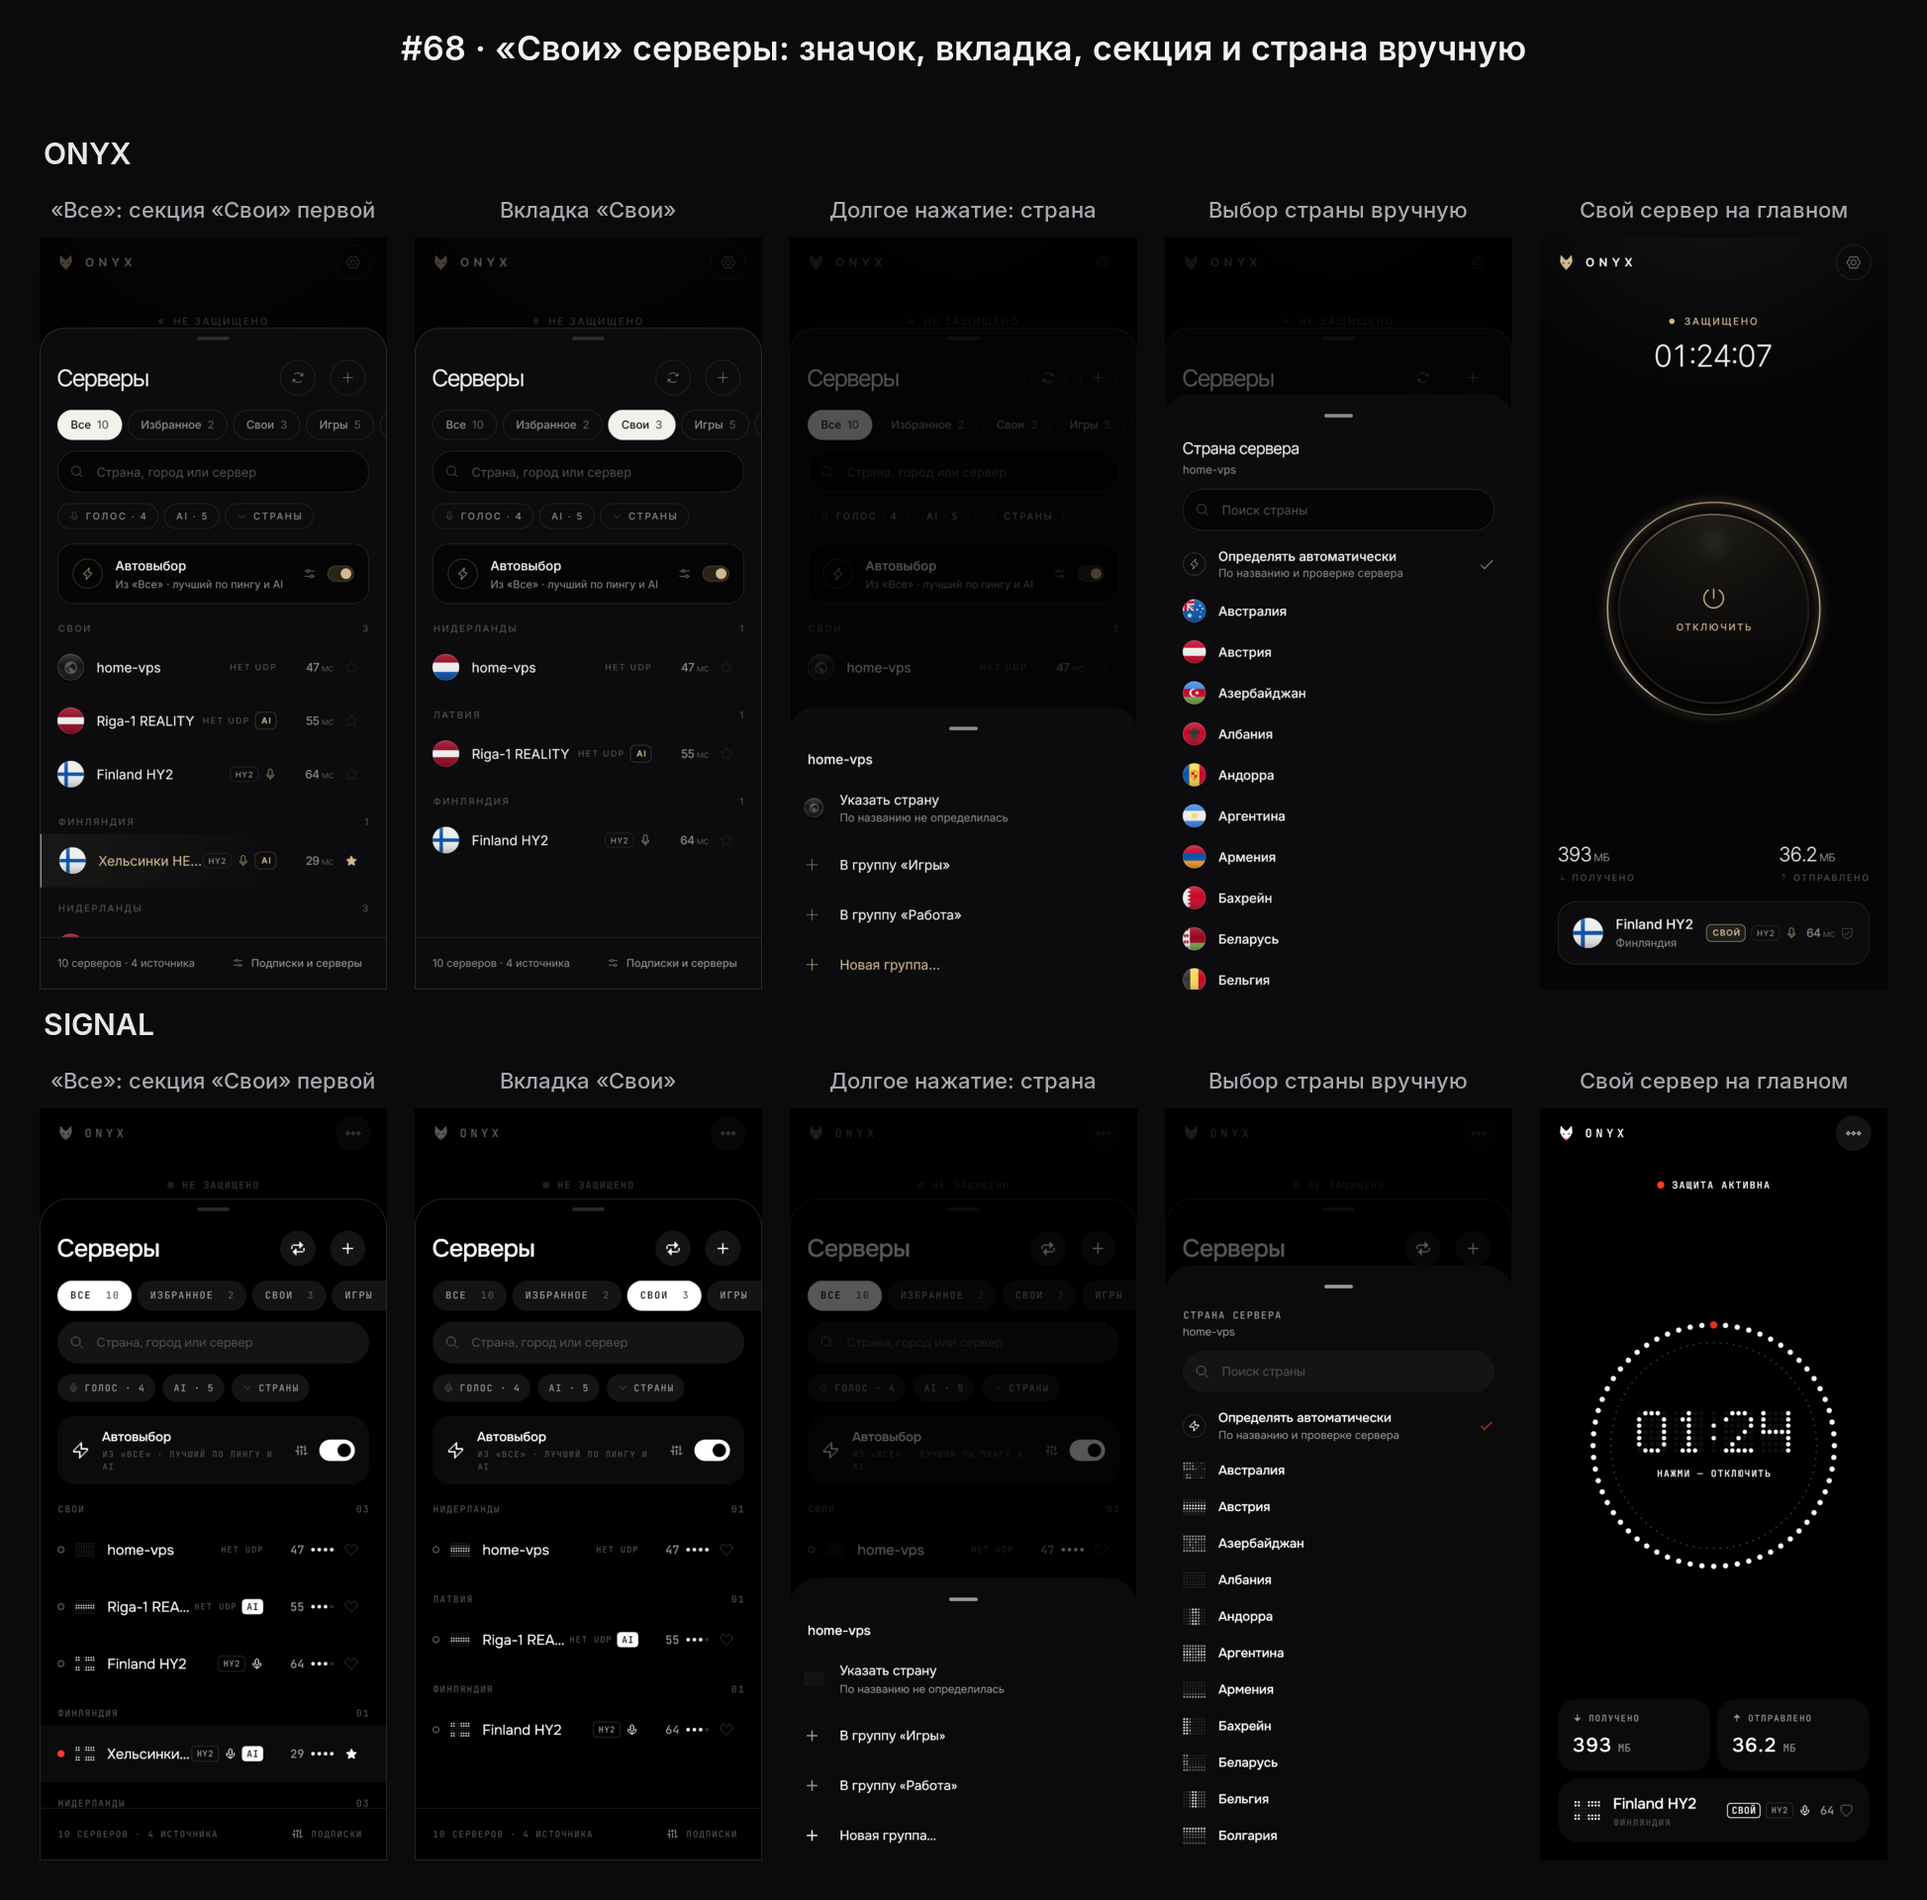
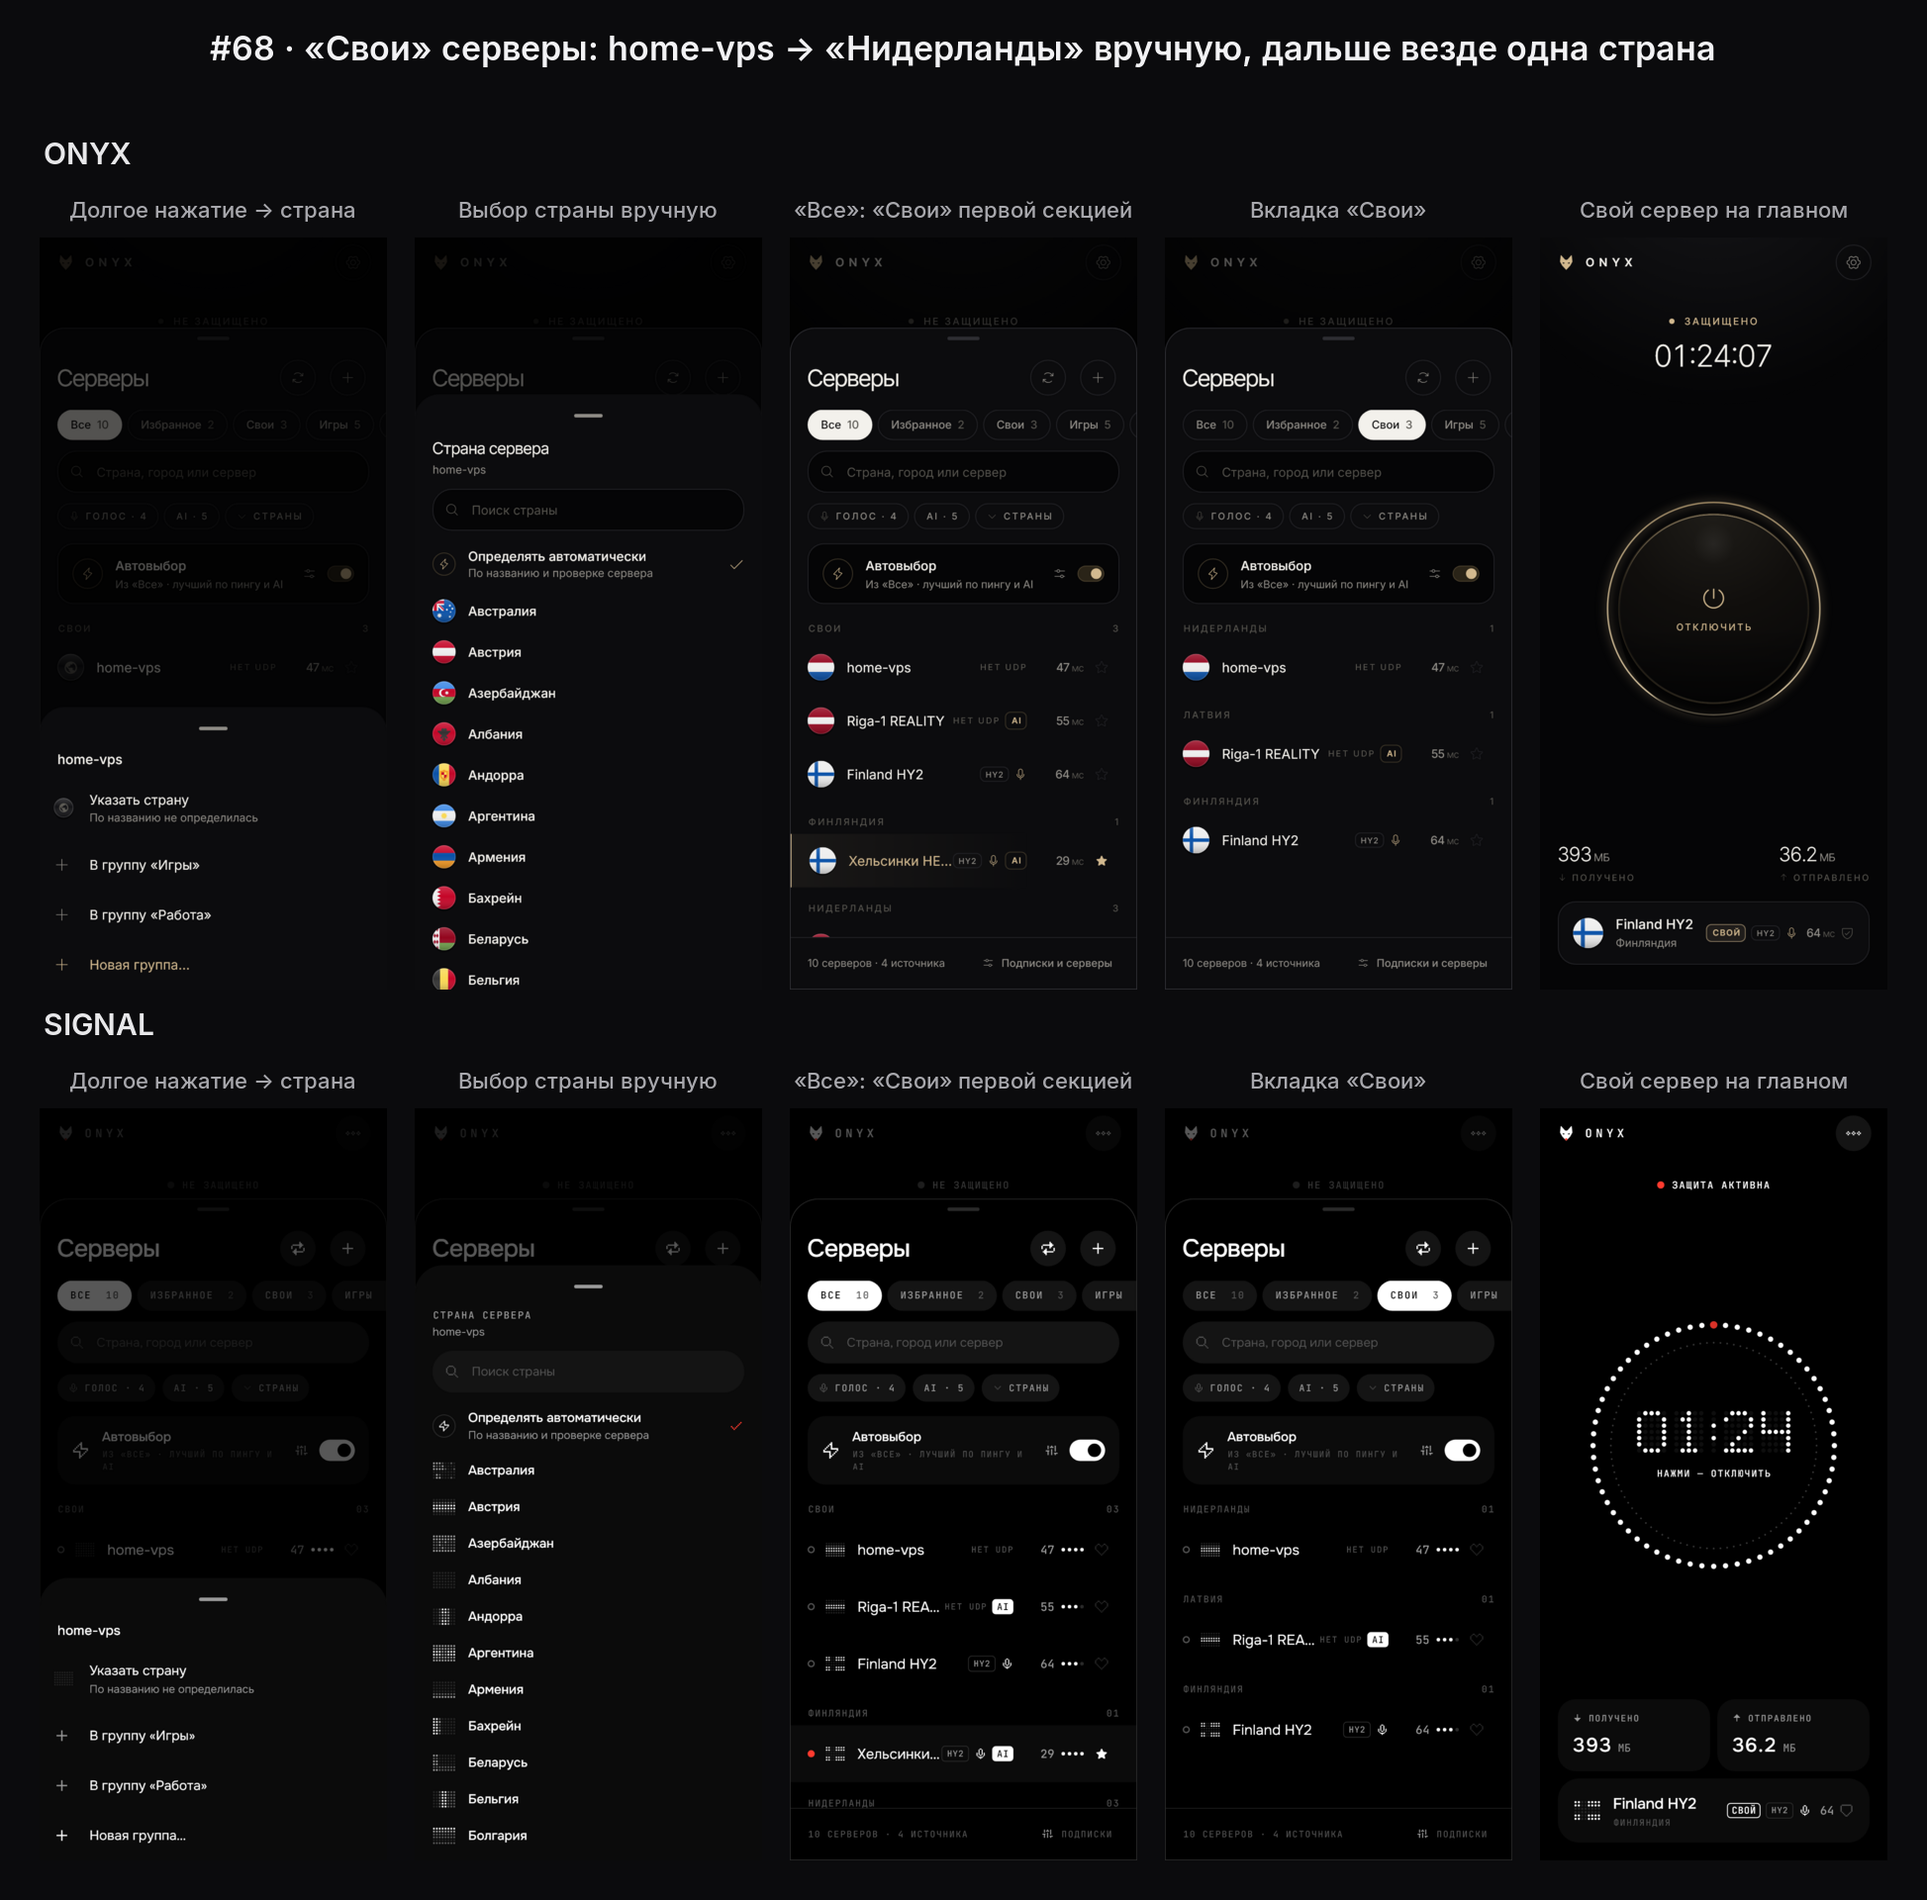
test(ui): страна сервера одна во всех местах — тест и согласованный мокап (#68)
Замечание оркестратора: на листе мокапа home-vps во «Все» был без
страны, а во вкладке «Свои» — с Нидерландами. Это были разные фикстуры
(выбор страны был задан только во второй), а в коде страна везде из
одного CountryResolver.
- Общая фикстура ownPicks (home-vps → nl) для «Все» и «Свои»; мокап
  пересобран: долгое нажатие → выбор страны → одна страна везде.
- Тест own-country-everywhere: при ручном выборе у home-vps флаг «nl»
  на карточке главного экрана, во «Все» и во «Свои» (обе темы).

diff --git a/test/screens_golden_test.dart b/test/screens_golden_test.dart
@@ -157,6 +157,9 @@ final nodes = [
   node('10', 'home-vps', 47),
 ];
 
+/// Ручной выбор страны у home-vps (203.0.113.10) — Нидерланды (#68).
+const ownPicks = {'203.0.113.10': 'nl'};
+
 final sub = SubscriptionState(
   status: SubStatus.ready,
   nodes: nodes,
@@ -319,16 +322,41 @@ void main() {
         await shot(tester, '${k.name}-phone-$s', app(k, vpnOf(s), const HomeScreen()), phone);
       });
     }
+    // «Все» — с той же ручной страной у home-vps, что и во вкладке «Свои»
+    // (#68): на листе мокапа обе колонки — одно состояние.
     testWidgets('${k.name} phone list', (tester) async {
-      await shot(tester, '${k.name}-phone-list', app(k, vpnOf('off'), const HomeScreen()), phone, then: () async {
+      await shot(tester, '${k.name}-phone-list', app(k, vpnOf('off'), const HomeScreen(), picks: ownPicks), phone, then: () async {
         final ctx = tester.element(find.byType(HomeScreen));
         showOnyxNodeSheet(ctx);
         await tester.pump(const Duration(seconds: 1));
       });
     });
+    // Страна одна во всех местах: «Все», «Свои», карточка главного экрана —
+    // общий CountryResolver (#68).
+    testWidgets('${k.name} own-country-everywhere', (tester) async {
+      final home = nodes.firstWhere((n) => n.id == '10'); // home-vps, страна выбрана вручную
+      debugDefaultTargetPlatformOverride = TargetPlatform.android;
+      tester.view.physicalSize = phone * 2;
+      tester.view.devicePixelRatio = 2;
+      String flagOf(String name) => tester
+          .widget<CountryFlag>(find.descendant(of: find.ancestor(of: find.text(name).last, matching: find.byType(Row)).first, matching: find.byType(CountryFlag)))
+          .code;
+      await tester.pumpWidget(app(k, VpnConnected(node: home, connectedAt: DateTime.now()), const HomeScreen(), picks: ownPicks));
+      await settle(tester);
+      expect(flagOf('home-vps'), 'nl', reason: 'карточка главного экрана');
+      showOnyxNodeSheet(tester.element(find.byType(HomeScreen)));
+      await settle(tester);
+      expect(flagOf('home-vps'), 'nl', reason: '«Все»');
+      await tester.tap(find.textContaining(RegExp('Свои|СВОИ'), findRichText: true).first);
+      await settle(tester);
+      expect(flagOf('home-vps'), 'nl', reason: '«Свои»');
+      await tester.pumpWidget(const SizedBox());
+      await tester.pump(const Duration(seconds: 1));
+      debugDefaultTargetPlatformOverride = null;
+    });
     // «Свои» серверы (#68): вкладка «Свои»; у home-vps страна выбрана вручную.
     testWidgets('${k.name} phone-own', (tester) async {
-      await shot(tester, '${k.name}-phone-own', app(k, vpnOf('off'), const HomeScreen(), picks: const {'203.0.113.10': 'nl'}), phone, then: () async {
+      await shot(tester, '${k.name}-phone-own', app(k, vpnOf('off'), const HomeScreen(), picks: ownPicks), phone, then: () async {
         showOnyxNodeSheet(tester.element(find.byType(HomeScreen)));
         await settle(tester);
         await tester.tap(find.textContaining(RegExp('Свои|СВОИ'), findRichText: true).first);
